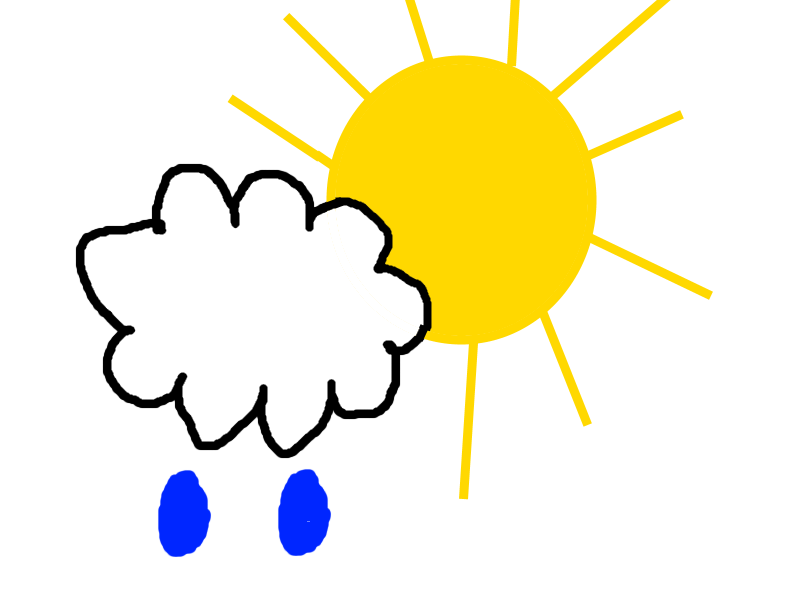
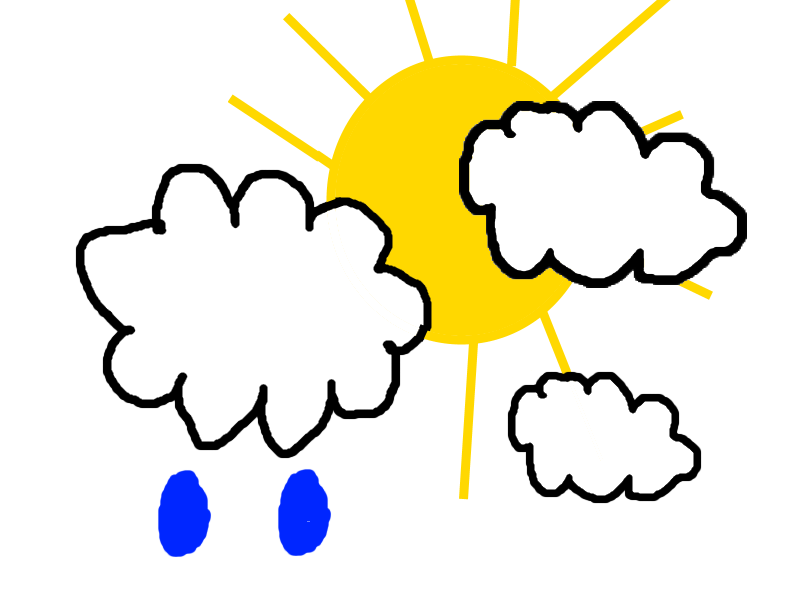
Bilder fertig implementiert Stürmischbild überarbeitet(noch paar wolken)

Changed region(s): [[0.5625, 0.15, 0.9375, 0.48], [0.625, 0.6, 0.875, 0.84]]

diff --git a/style.css b/style.css
@@ -68,3 +68,10 @@ a {
   font-size: 30px;
 
 }
+
+#wetterimg {
+  margin-right: 50px;
+  margin-left: 20px;
+
+
+}

diff --git a/heute.php b/heute.php
@@ -34,22 +34,23 @@ $hpaproStunde=$L1-$Lvs;
     <a>
     <?php
       if($L1>1030){
+        echo '<img src="sonne.png" alt="Beispiel" width="400" height="200" id="wetterimg">';
         echo "Sehr viel Sonne fast unbewölkter Himmel";
       }
       if($L1<1030 && $L1>1020){
-
+        echo '<img src="normal.png" alt="Beispiel" width="400" height="200" id="wetterimg">';
         echo "Sonne mit wenigen Wolken";
       }
       if($L1<1020 && $L1>=1000){
-
+        echo '<img src="wolken.png" alt="Beispiel" width="400" height="200" id="wetterimg">';
         echo "Bewölkt, vereinzelt mit Sonne";
       }
       if($L1<1000 && $L1>990){
-      echo '<img src="sonne.png" alt="Beispiel" width="400" height="200">';
+        echo '<img src="regen.png" alt="Beispiel" width="400" height="200" id="wetterimg">';
        echo "Bewölkt eventuell auch Regen und Wind ";
       }
       if($L1<990 && $L1>970){
-
+        echo '<img src="sturmisch.png" alt="Beispiel" width="400" height="200" id="wetterimg">';
         echo "Sehr Stürmisch eventuell auch starker Regen";
       }
 
